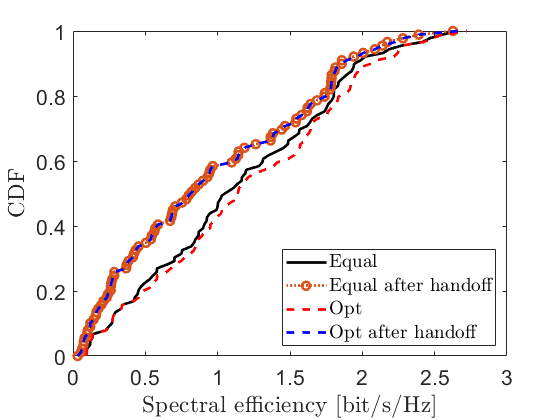
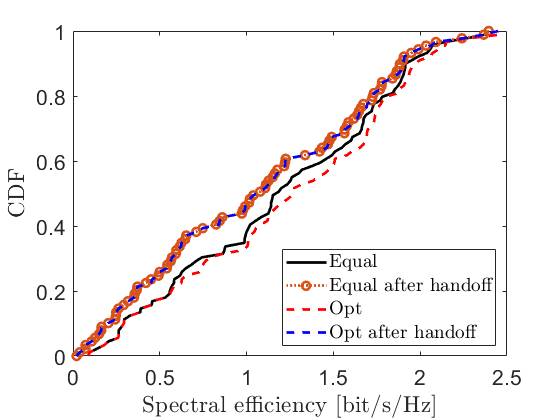
reintroducing power factor

diff --git a/Simulation/functionDownlinkSE_sumSE_distv3.m b/Simulation/functionDownlinkSE_sumSE_distv3.m
@@ -41,7 +41,7 @@ La = zeros(K,1);
 Serv = cell(K,1);
 %Prepare cell to store the AP indices not serving a specficic UE
 NoServ = cell(K,1);
-p_fac= 1; %100; %ratio of mmW to sub-6 powers
+p_fac= 100; %ratio of mmW to sub-6 powers
 %Construc the above array and cells
 for k = 1:K
     servingAPs = find(D(:,k)==1);
